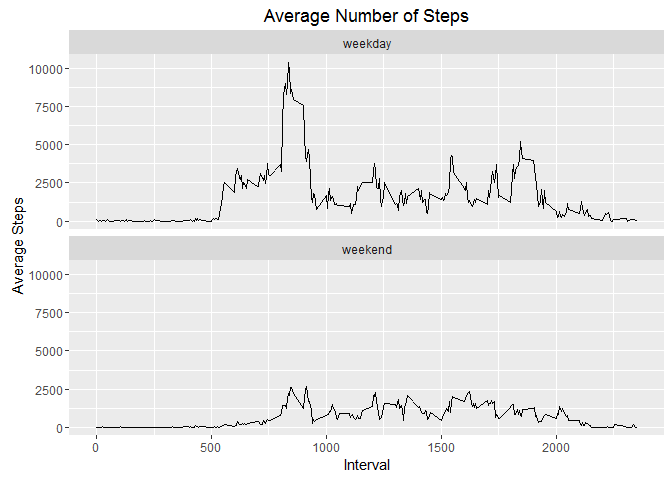
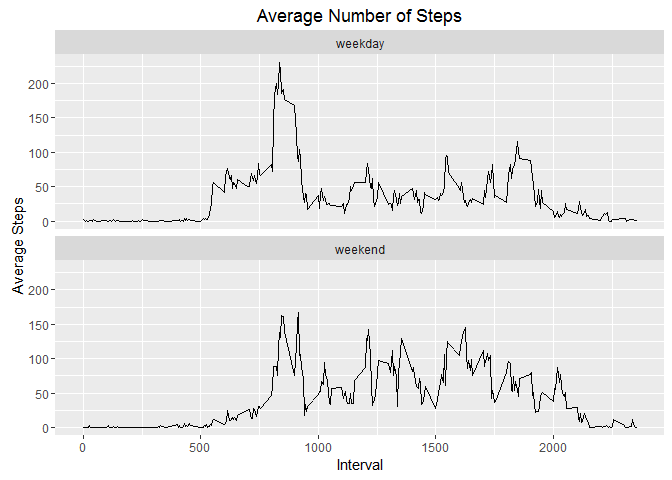
Version 0.1 - Updated from sum to mean

diff --git a/PA1_template.html b/PA1_template.html
@@ -133,6 +133,11 @@ $(document).ready(function () {
 <td align="left">0</td>
 <td align="left">Initial (Zip file downloaded on 2016-04-01 0730 SGT)</td>
 </tr>
+<tr class="even">
+<td align="left">2016-04-04</td>
+<td align="left">0.1</td>
+<td align="left">Updated last plot from sum to mean</td>
+</tr>
 </tbody>
 </table>
 </div>
@@ -248,13 +253,13 @@ ggplot(data = data.noNA.perDay, aes(Date, SumSteps)) +
                                                                 &quot;Saturday&quot;),
                                       &quot;weekend&quot;, &quot;weekday&quot;)) %&gt;%
                         group_by(interval, dayType) %&gt;%
-                        summarise(sum(steps.new))
+                        summarise(mean(steps.new))
 names(data.noNA.perDayType)[3] &lt;- &quot;SumSteps&quot;
 
 ggplot(data = data.noNA.perDayType, aes(interval, SumSteps)) + 
     facet_wrap(~dayType, ncol = 1) + geom_line() +
     labs(title = &quot;Average Number of Steps&quot;, x = &quot;Interval&quot;, y = &quot;Average Steps&quot;)</code></pre>
[2 lines of base64/hex data omitted]
 </div>
 
 

diff --git a/PA1_template.md b/PA1_template.md
@@ -10,6 +10,7 @@ save it in your current working directory.
 Date       | Version | Comments
 ---------- | ------- | ---------------------------------------------------------
 2016-04-03 | 0       | Initial (Zip file downloaded on 2016-04-01 0730 SGT)
+2016-04-04 | 0.1     | Updated last plot from sum to mean
 
 ## Loading and preprocessing the data
 1. Unzip the file
@@ -175,7 +176,7 @@ data.noNA.perDayType <- mutate(data.noNA, dayType =
                                                                 "Saturday"),
                                       "weekend", "weekday")) %>%
                         group_by(interval, dayType) %>%
-                        summarise(sum(steps.new))
+                        summarise(mean(steps.new))
 names(data.noNA.perDayType)[3] <- "SumSteps"
 
 ggplot(data = data.noNA.perDayType, aes(interval, SumSteps)) + 
